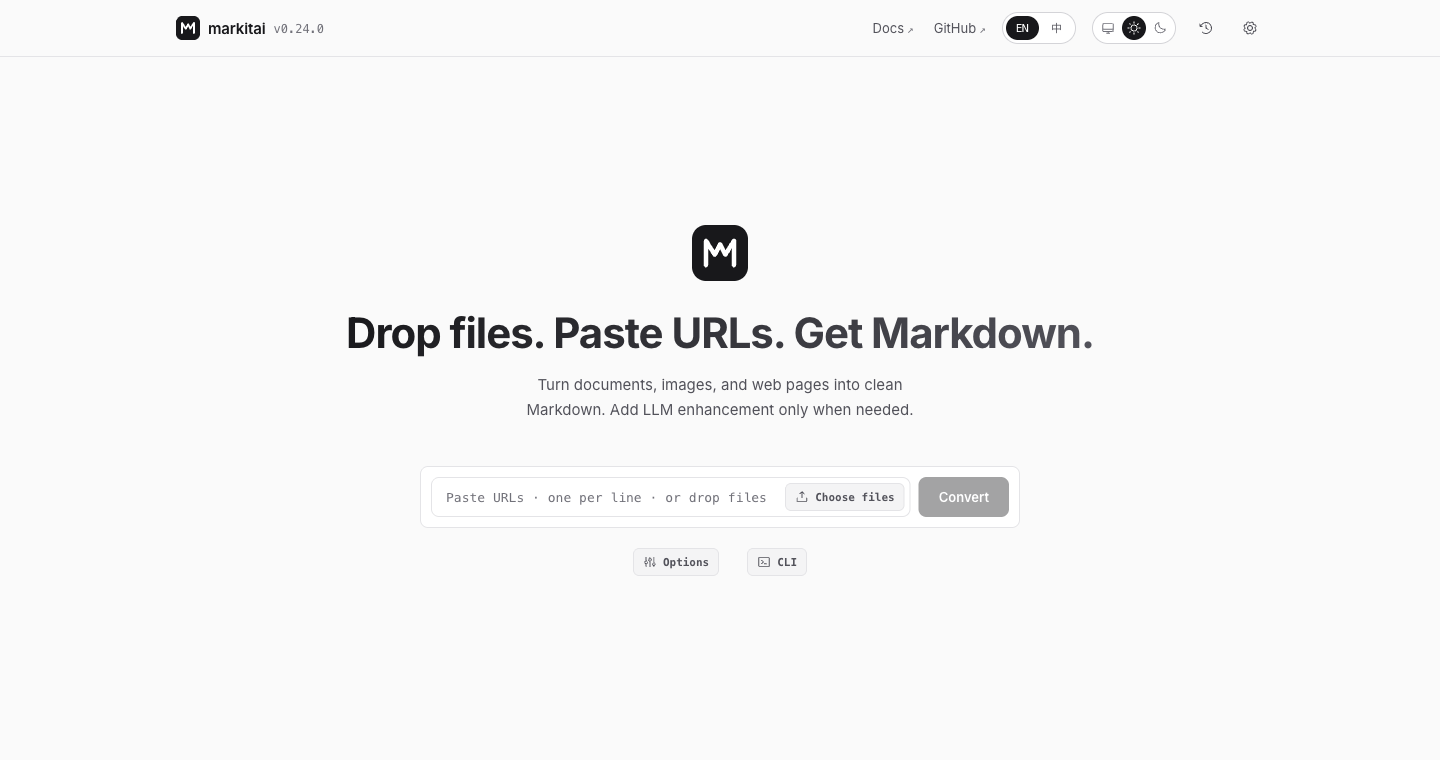
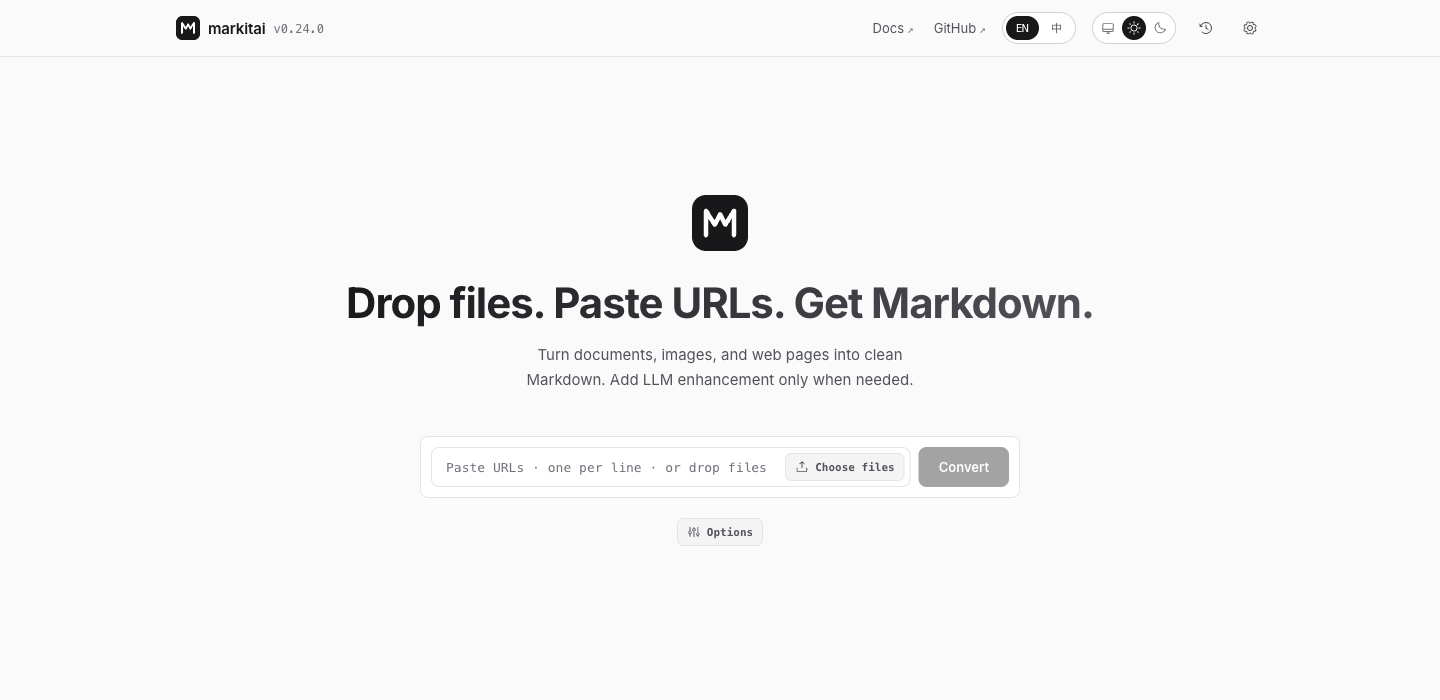
fix(website): let the pitch be one screen, and give the fold some room
The hero and its four feature cards ran past the bottom of the viewport, so
the pitch was something you had to scroll to finish. They now fit one
screen on a desktop window, with the divider peeking in to say there is
more.

Below it the page was cramped — the workbench section started right under
the cards with a hairline between and little else. Both sides of that
divider get room now, which the first screen does not pay for.

The workbench captures are retaken against the redesigned panel.

diff --git a/website/.vitepress/theme/custom.css b/website/.vitepress/theme/custom.css
@@ -88,9 +88,34 @@
 /* Homepage: show the shortest path to a useful result. */
 /* Home: one look at the workbench, so the web UI is not a surprise buried
    in the guide. Sized from the capture so the reserved box matches. */
+/* The hero and its four feature cards are the pitch: they should land as one
+   screen, not as a block the reader has to scroll to finish. The nav is 64px;
+   the rest is the hero plus the features, centered in what remains. */
+@media (min-width: 960px) and (min-height: 760px) {
+  .VPHome .VPHero + .VPFeatures {
+    padding-bottom: 0;
+  }
+  /* The nav is fixed and overlays the hero, so the offset has to include it:
+     a flat value put the title underneath the nav bar. */
+  .VPHome > .VPHero {
+    padding-top: calc(var(--vp-nav-height) + 40px);
+  }
+  .VPHome .VPHero .container {
+    padding-bottom: 8px;
+  }
+}
+
+/* Below the fold the page was cramped: the workbench section started right
+   under the feature cards with a hairline between and little else. Give both
+   sides of that divider room, without touching the screen above it. */
+.VPHome .VPFeatures {
+  padding-bottom: 96px;
+  border-bottom: 1px solid var(--vp-c-divider);
+}
+
 .home-shot {
   max-width: 1152px;
-  margin: 64px auto 0;
+  margin: 96px auto 0;
   padding: 0 24px;
   text-align: center;
 }

diff --git a/website/index.md b/website/index.md
@@ -35,7 +35,7 @@ features:
 <section class="home-shot" aria-labelledby="shot-title">
   <h2 id="shot-title">A workbench, when you would rather not type</h2>
   <p><code>markitai serve</code> runs the same conversion core behind a local web UI — drop files in, paste URLs, watch progress, and download results.</p>
-  <img src="/workbench.png" alt="The markitai web workspace: a drop area for files and URLs, with Options and CLI disclosures beneath it." width="1440" height="760" loading="lazy" />
+  <img src="/workbench.png" alt="The markitai web workspace: a drop area for files and URLs, with Options and CLI disclosures beneath it." width="1440" height="700" loading="lazy" />
   <p class="home-shot-link"><a href="/guide/serve">Read about the web workspace <span aria-hidden="true">→</span></a></p>
 </section>
 

diff --git a/website/zh/index.md b/website/zh/index.md
@@ -35,7 +35,7 @@ features:
 <section class="home-shot" aria-labelledby="shot-title">
   <h2 id="shot-title">不想敲命令时，有个工作台</h2>
   <p><code>markitai serve</code> 用同一套转换内核提供本地网页界面——拖入文件、粘贴 URL、实时查看进度、下载结果。</p>
-  <img src="/workbench.zh.png" alt="markitai 网页工作台：文件与 URL 的拖放区，下方是「选项」与 CLI 两个折叠入口。" width="1440" height="760" loading="lazy" />
+  <img src="/workbench.zh.png" alt="markitai 网页工作台：文件与 URL 的拖放区，下方是「选项」与 CLI 两个折叠入口。" width="1440" height="700" loading="lazy" />
   <p class="home-shot-link"><a href="/zh/guide/serve">了解网页工作台 <span aria-hidden="true">→</span></a></p>
 </section>
 
